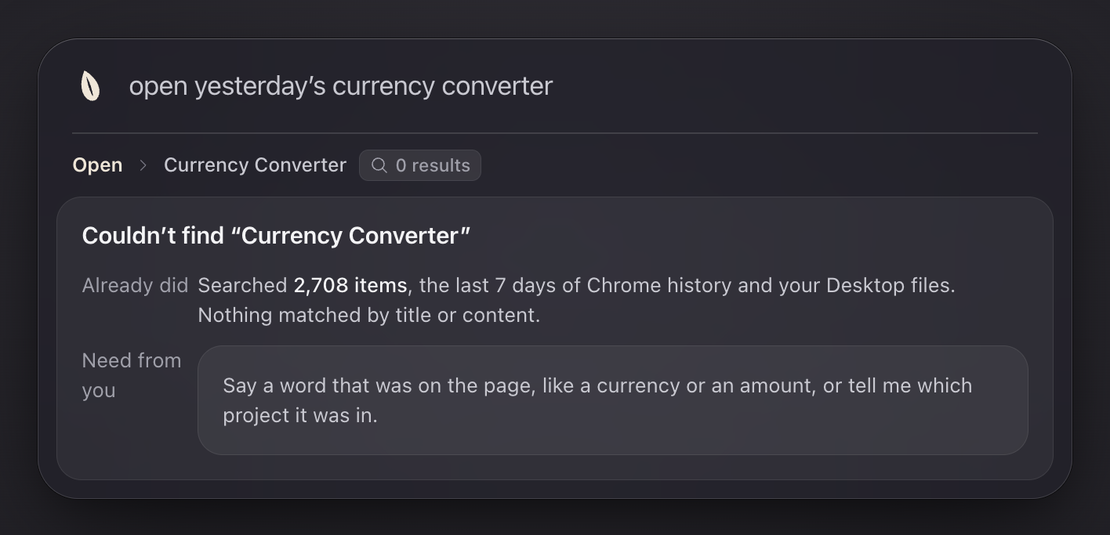
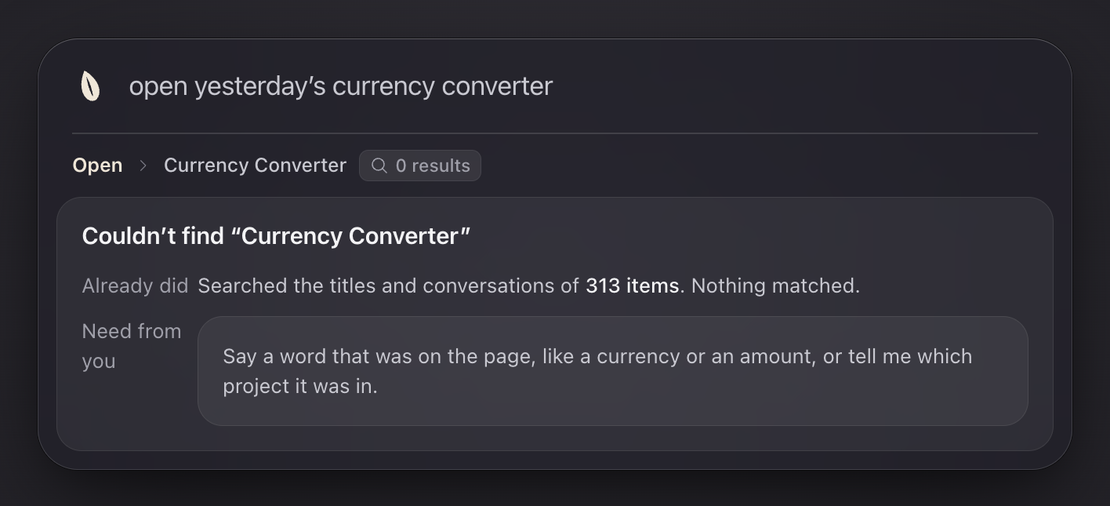
docs: not-found demo copy says what Sesame really searched
The not-found sample said it searched "Chrome history and Desktop files".
Sesame does not read either, and the privacy section says it only reads
~/.claude/projects and ~/.codex/sessions. The sample now reads
"Searched the titles and conversations of 313 items. Nothing matched."

- Demo.swift state 0 and the demo menu index line (2533 -> 313)
- design/prototype.html not-found line
- comment examples 2,708 -> 313
- docs/assets/miss-{zh,en}-{light,dark}.png re-shot from the prototype
  (headless Chrome, same stills pipeline, 1110 px wide; the English
  ones are 506 px tall instead of 535 because the line no longer wraps)

diff --git a/macos/Sources/Sesame/Demo.swift b/macos/Sources/Sesame/Demo.swift
@@ -46,7 +46,7 @@ enum Demo {
         case "8": return ("open the trading dashboard", .success(IntentLine(verb: .open, target: "Trading Dashboard", chip: .local),
                                                              OpenedCard(name: "Trading Dashboard", address: "localhost:7341", source: "from a Claude Code session, Sep 24", kind: .local)))
         case "0": return ("打开昨天那个汇率换算表", .notFound(IntentLine(verb: .open, target: "汇率换算表", chip: .results(0)),
-                                                 MissCard(message: "没找到“汇率换算表”", done: "搜过 **2533 条**索引、Chrome 最近 7 天历史和桌面文件，没有标题或内容对得上的。",
+                                                 MissCard(message: "没找到“汇率换算表”", done: "搜过 **313 条**产物的标题和所在对话，没有对得上的。",
                                                           need: "说一个页面里出现过的词，比如币种或金额；或者告诉我是在哪个项目里做的。")))
         case "4", "4s", "h":
             let sample = Candidate(id: "demo", title: "上周那个交易大盘", address: "localhost:7341", url: nil, kind: .local)
@@ -101,7 +101,7 @@ enum Demo {
                 RecentItem(title: "Q3 复盘图表", url: nil, query: "", kind: "artifact", date: now.addingTimeInterval(-26 * 3600)),
                 RecentItem(title: "供应商比价表.md", url: nil, query: "", kind: "file", date: now.addingTimeInterval(-4 * 86400)),
             ]
-            app.demoIndexLine = L10n.language == "en" ? "2533 items · 2 min ago" : "2533 条 · 2 分钟前更新"
+            app.demoIndexLine = L10n.language == "en" ? "313 items · 2 min ago" : "313 条 · 2 分钟前更新"
             DispatchQueue.main.asyncAfter(deadline: .now() + 0.8) { app.popMenuForDemo() }
         } else if o.state == "s" {
             app.openSettings()

diff --git a/design/prototype.html b/design/prototype.html
@@ -759,7 +759,7 @@ kbd.down { background: var(--sel); box-shadow: inset 0 1px 1.5px rgba(0,0,0,.18)
       <div class="miss">
         <div class="msg">没找到“汇率换算表”</div>
         <dl class="steps">
-          <dt>已经做了</dt><dd>搜过 <b>313 条</b>记录、Chrome 最近 7 天历史和桌面文件，没有标题或内容对得上的。</dd>
+          <dt>已经做了</dt><dd>搜过 <b>313 条</b>产物的标题和所在对话，没有对得上的。</dd>
           <dt>需要你</dt><dd class="ask">说一个页面里出现过的词，比如币种或金额；或者告诉我是在哪个项目里做的。</dd>
         </dl>
       </div>` },

diff --git a/macos/Sources/Sesame/AppController.swift b/macos/Sources/Sesame/AppController.swift
@@ -390,7 +390,7 @@ final class AppController: NSObject, NSMenuDelegate {
     /// Same wording and spacing as the index row ("2 分钟前" / "2 min ago")
     static func relative(_ d: Date) -> String { IndexLine.ago(d, now: Date(), zh: L10n.language.hasPrefix("zh")) }
 
-    /// "正在整理… 1,204 条" / "2,708 条 · 2 分钟前" from structured fields (never a path)
+    /// "正在整理… 1,204 条" / "313 条 · 2 分钟前" from structured fields (never a path)
     func indexStatusText() -> String {
         if case .failed = coreState { return L10n.t("menu.indexUnavailable") }
         return IndexLine.text(indexStatus, zh: zh)

diff --git a/macos/Sources/SesameCore/Status.swift b/macos/Sources/SesameCore/Status.swift
@@ -46,7 +46,7 @@ public struct RestartPolicy: Equatable, Sendable {
     public mutating func reset() { failuresInARow = 0 }
 }
 
-/// Text for the menu's index row: "正在整理… 1,204 条" / "2,708 条 · 2 分钟前". Never a path.
+/// Text for the menu's index row: "正在整理… 1,204 条" / "313 条 · 2 分钟前". Never a path.
 public enum IndexLine {
     public static func text(_ s: IndexStatus?, now: Date = Date(), zh: Bool) -> String {
         guard let s else { return zh ? "正在连接…" : "Connecting…" }

diff --git a/macos/Sources/Sesame/NewStates.swift b/macos/Sources/Sesame/NewStates.swift
@@ -84,7 +84,7 @@ struct IntroView: View {
         .animation(.timingCurve(0.2, 0.8, 0.2, 1, duration: 0.26), value: card.sample)
     }
 
-    /// "2,708 个 AI 产物，一句话的事。": the number in a heavier, larger cut of the same line
+    /// "313 个 AI 产物，一句话的事。": the number in a heavier, larger cut of the same line
     private var countLine: some View {
         let (a, b) = ShareCard.split(L10n.t("intro.count"))
         return (Text(a).font(.ui(17)).foregroundColor(Tok.text2)
